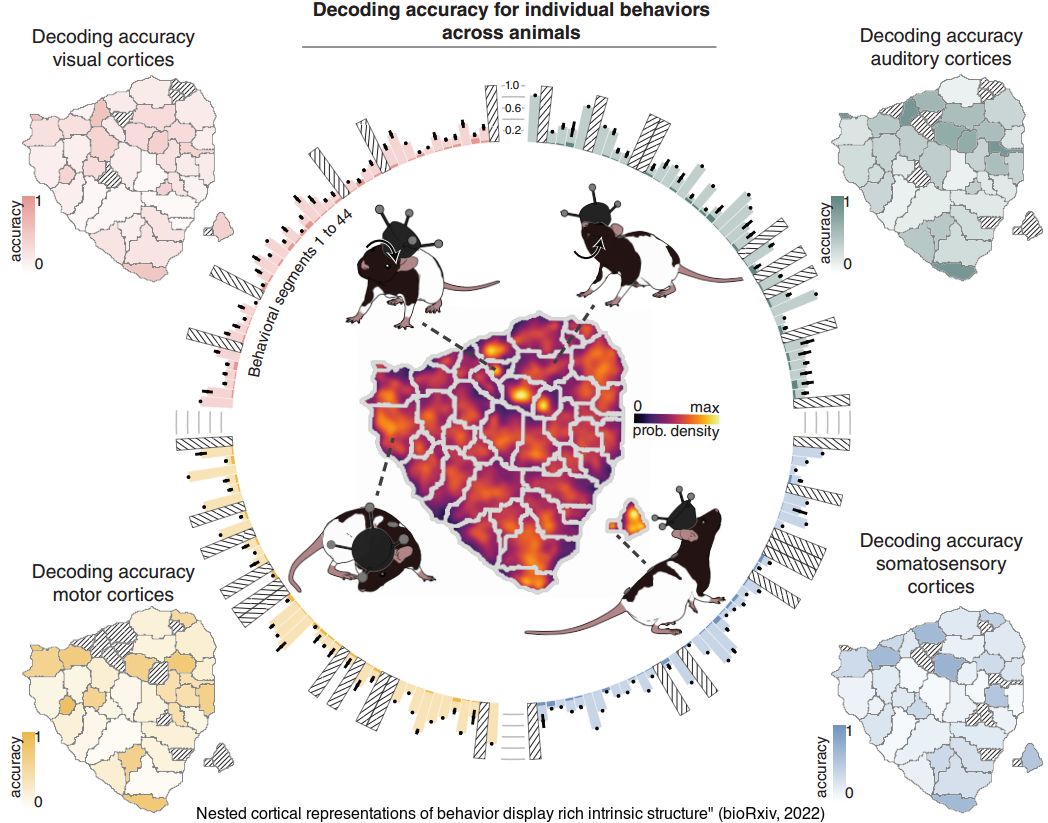
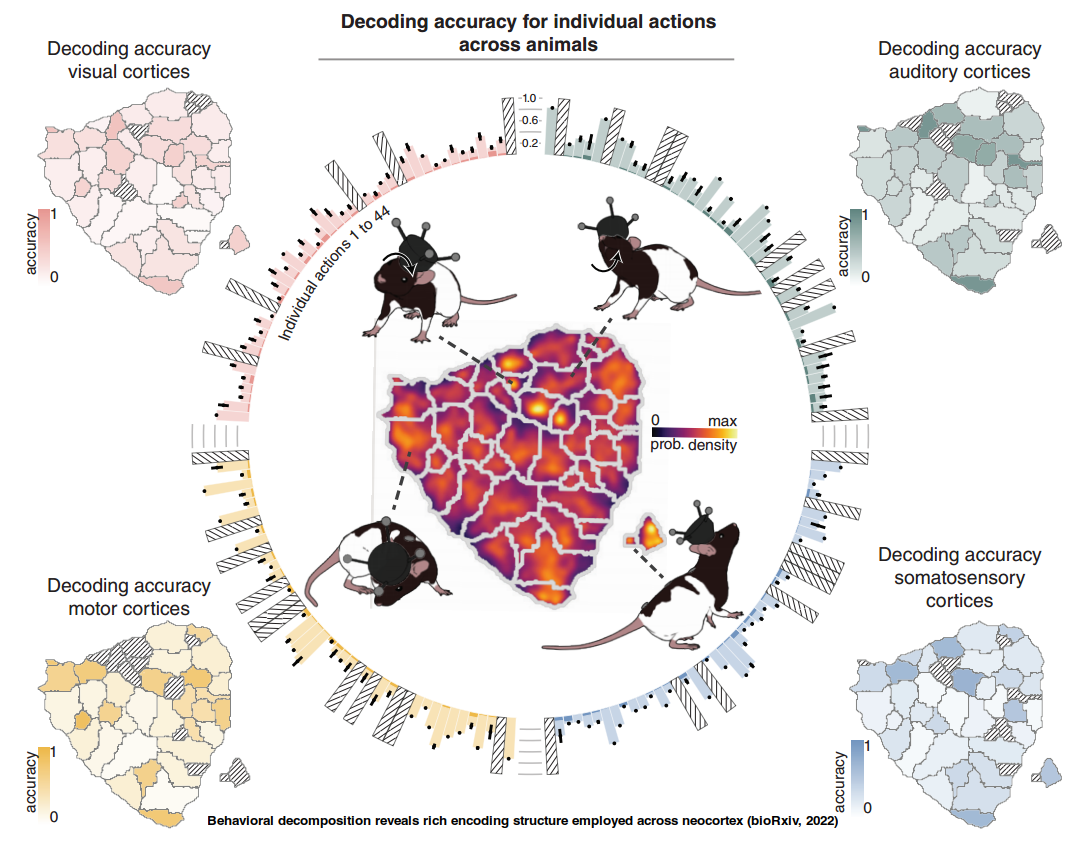
change paper name

Changed region(s): [[0.0, 0.0, 1.0, 1.0], [0.4885, 0.7594, 0.5496, 0.7898], [0.3969, 0.6987, 0.4275, 0.729]]

diff --git a/README.md b/README.md
@@ -1,7 +1,7 @@
 # KISN-pancortical-kinematics
 ### Data analyses for e-phys and 3D tracking experiments
 ---------------------------------------------------------------------------------
-Code used to generate findings presented in "Nested cortical representations of behavior display rich intrinsic structure" (bioRxiv, 2022). The "Rat 3D Tracking & E-Phys KISN 2020 Dataset", generated for the purposes of this project, can be downloaded at [fig**share**](https://figshare.com/articles/dataset/Rat_3D_Tracking_E-Phys_KISN_2020_Dataset/17903834).
+Code used to generate findings presented in "Behavioral decomposition reveals rich encoding structure employed across neocortex" (bioRxiv, 2022). The "Rat 3D Tracking & E-Phys KISN 2020 Dataset", generated for the purposes of this project, can be downloaded at [fig**share**](https://figshare.com/articles/dataset/Rat_3D_Tracking_E-Phys_KISN_2020_Dataset/17903834).
 
 ![rat_behavior](./rat_behavior.gif)
 ![decode_behaviors](./decode_behaviors.png)
